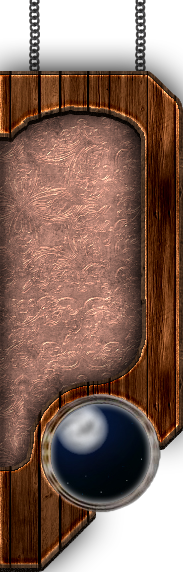
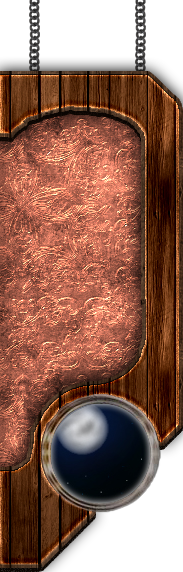
different backgrounds, improved sidebar

diff --git a/index.html b/index.html
@@ -14,13 +14,15 @@
 </head>
 
 <body class="container-fluid">
-    <header class="row">
-        <div id="title-bar" class="container-fluid">
-            <div class="container-fluid d-flex flex-row justify-content-center align-items-center">
-                <div class="p-2"><a href="#">BattleMaster</a></div>
-                <div class="p-2"><a href="#">Wiki</a></div>
-                <div class="p-2"><a href="#">Forums</a></div>
-                <div class="p-2"><a href="#">Bugtracker</a></div>
+    <header>
+        <div class="row">
+            <div id="title-bar" class="container-fluid">
+                <div class="container-fluid d-flex flex-row justify-content-center align-items-center">
+                    <div class="p-2"><a href="#">BattleMaster</a></div>
+                    <div class="p-2"><a href="#">Wiki</a></div>
+                    <div class="p-2"><a href="#">Forums</a></div>
+                    <div class="p-2"><a href="#">Bugtracker</a></div>
+                </div>
             </div>
         </div>
     </header>
@@ -48,7 +50,7 @@
                             <svg style="height: 64px; width: 64px;" xmlns="http://www.w3.org/2000/svg" viewBox="0 0 512 512">
                                 <g class="" style="touch-action: none;" transform="translate(0,0)">
                                     <path d="M311.9 47.95c-17.6 0-34.6.7-50.7 2.43L244.6 93.5l-4.9-40.04c-2.5.46-5 .94-7.5 1.47-9.1 1.94-15.1 7.22-20.3 14.87-5.2 7.65-8.9 17.5-12.1 26.6C191 121.5 184 148 178.4 175c6 5.1 12 10.3 17.9 15.4l30.7-17.6 33.8 26.1 51.9-19.7 61 24.5-6.8 16.7-54.4-21.8-54.7 20.7-32.2-24.9-14.9 8.5c19.6 17.3 38.6 34.4 56.5 51.2l14-6.4 33.9 16.1 31.2-13.1 24.2 23.3-12.4 13-15.8-15.1-27.6 11.7-33-15.8c6.9 6.7 13.6 13.2 20.1 19.7l1.7 1.8 19.5 76.3-7.8-5.7-53 .4-38.1-17.8-42.4 14.6-5.8-17 49.2-17 41.1 19.2 24.7-.2-70.7-51.7c-19.7 4.6-39.4 2.8-58.1-3.7-4.2 44.4-5.9 85.7-7 118.7-.4 10.7 2.7 23 7.5 32.5 4.9 9.5 11.7 15.4 15 16.1 5.2 1.2 19 3.2 37.7 5.1l12.4-39 19.1 41.7c16.7 1.2 35 2 53.5 2.2 28.2.3 57.1-.9 82-4.7 15.8-2.3 29.6-6 40.7-10.4-11.8-5.1-21.6-10.6-29.1-16.6-11.1-8.9-18.2-19.3-17.3-30.9v.2c5.4-96.4 10.8-188.8 30.3-286l.1-.4.1-.4c5.3-17.9 17.9-39.86 36.1-55.83-13.9-2.06-28.6-4-43.7-5.66l-22.3 25.3-2.2-27.7c-19-1.64-38.4-2.71-57.4-2.92h-5.7zm148.5 20.44c-4.7 3.69-9.2 8.03-13.3 12.73 12.1 8.18 21.4 23.38 21.8 36.98.3 7.8-1.9 14.9-7.7 21.4-5.8 6.4-15.6 12.4-31.6 15.8l3.8 17.6c18.6-4 32.3-11.5 41.2-21.4 9-9.9 12.7-22.2 12.3-34-.6-19.3-11.1-37.59-26.5-49.11zM25.44 71.91c-.24 1.61-.38 3.43-.38 5.62.1 7.69 2.03 18.17 5.83 30.17 3.41 10.7 8.27 22.5 14.35 34.8 10.63-5.3 20.59-11 28.41-18.1-4.42 12.5-10.15 24.7-18.6 36.5 4.14 7.2 8.63 14.4 13.45 21.5 10.64-5.3 20.72-13 29.52-26.1-3.3 16-8.47 30.6-18.27 41.8 6.53 8.5 13.5 16.8 20.75 24.5 8.7-9.3 15.6-21 20.7-34.9 3.8 18.5 2.6 35.3-5.7 49.4 8 7.2 16.3 13.7 24.8 19.1 6.1-14 8.9-30.6 8.5-49.7 9.2 23.7 11.3 42.9 9.6 59.5 20.2 9.2 40.8 12 61.3 6.1l4.2-1.3 69.3 50.6-5.9-22.8c-73-72.8-175.4-156.7-261.86-226.69zM312.8 123.9l33.2 13.8 31.3-9.9 5.4 17.2-37.5 11.9-33.6-14-28.8 8.1-4.8-17.4zm107.3 236.2c-.7 0-1.3.1-2 .1-3.5.1-7.2.5-11.1 1.3l3.4 17.6c12.2-2.3 20-.4 24.5 2.5 4.4 2.9 6.3 6.8 6.4 12.5.1 9.3-7 23-23.3 32.5 5.4 2.9 11.9 5.9 19.3 8.7 14.4-11.6 22.1-26.8 22-41.4-.1-10.7-5.2-21.2-14.6-27.4-6.7-4.3-15-6.5-24.6-6.4z" fill="#fff" fill-opacity="1"></path>
-                                </g> 
+                                </g>
                             </svg><br><small>Messages</small>
                         </div>
                         <div class="col-3 text-center">

diff --git a/style.css b/style.css
@@ -4,8 +4,8 @@
 }
 
 html {
-    background-color: black;
-    background: url(images/background2.jpg);
+    background: url(images/bm-stone-wall-1.jpg), url(images/bm-stone-wall.jpg);
+    background-repeat: repeat-x, repeat;
 }
 
 body {
@@ -16,8 +16,7 @@ body {
 
 footer {
     color: white;
-    background-color: black;
-    background: url(images/background2.jpg);
+    background: url(images/bm-stone-wall.jpg);
     border-top: thin solid #181818;
     position: fixed;
     bottom: 0;
@@ -45,19 +44,18 @@ footer a {
     color: white;
     min-height: 575px;
     min-width: 200px;
-    background-image: url(images/sidebar-night.png);
+    background-image: url(images/bm-sidebar-night.png);
     background-repeat: no-repeat;
-    padding-top: 125px;
+    padding-top: 140px;
     position: fixed;
     left: 0;
     z-index: 98;
 }
 
 #menu-bar a {
-    color: black;
-    font-size: x-large;
-    text-shadow: 3px 3px 3px #000;
-    color: #f9ba9c;
+    font-size: 16pt;
+    text-shadow: 2px 2px #000;
+    color: #ffcaa8;
 }
 
 #menu-bar li {
@@ -84,7 +82,6 @@ footer a {
     left: 20px;
     bottom: 100px;
     background-color: black;
-    background: url(images/background2.jpg);
     padding: 5px;
     border: thin solid #808080;
 }
